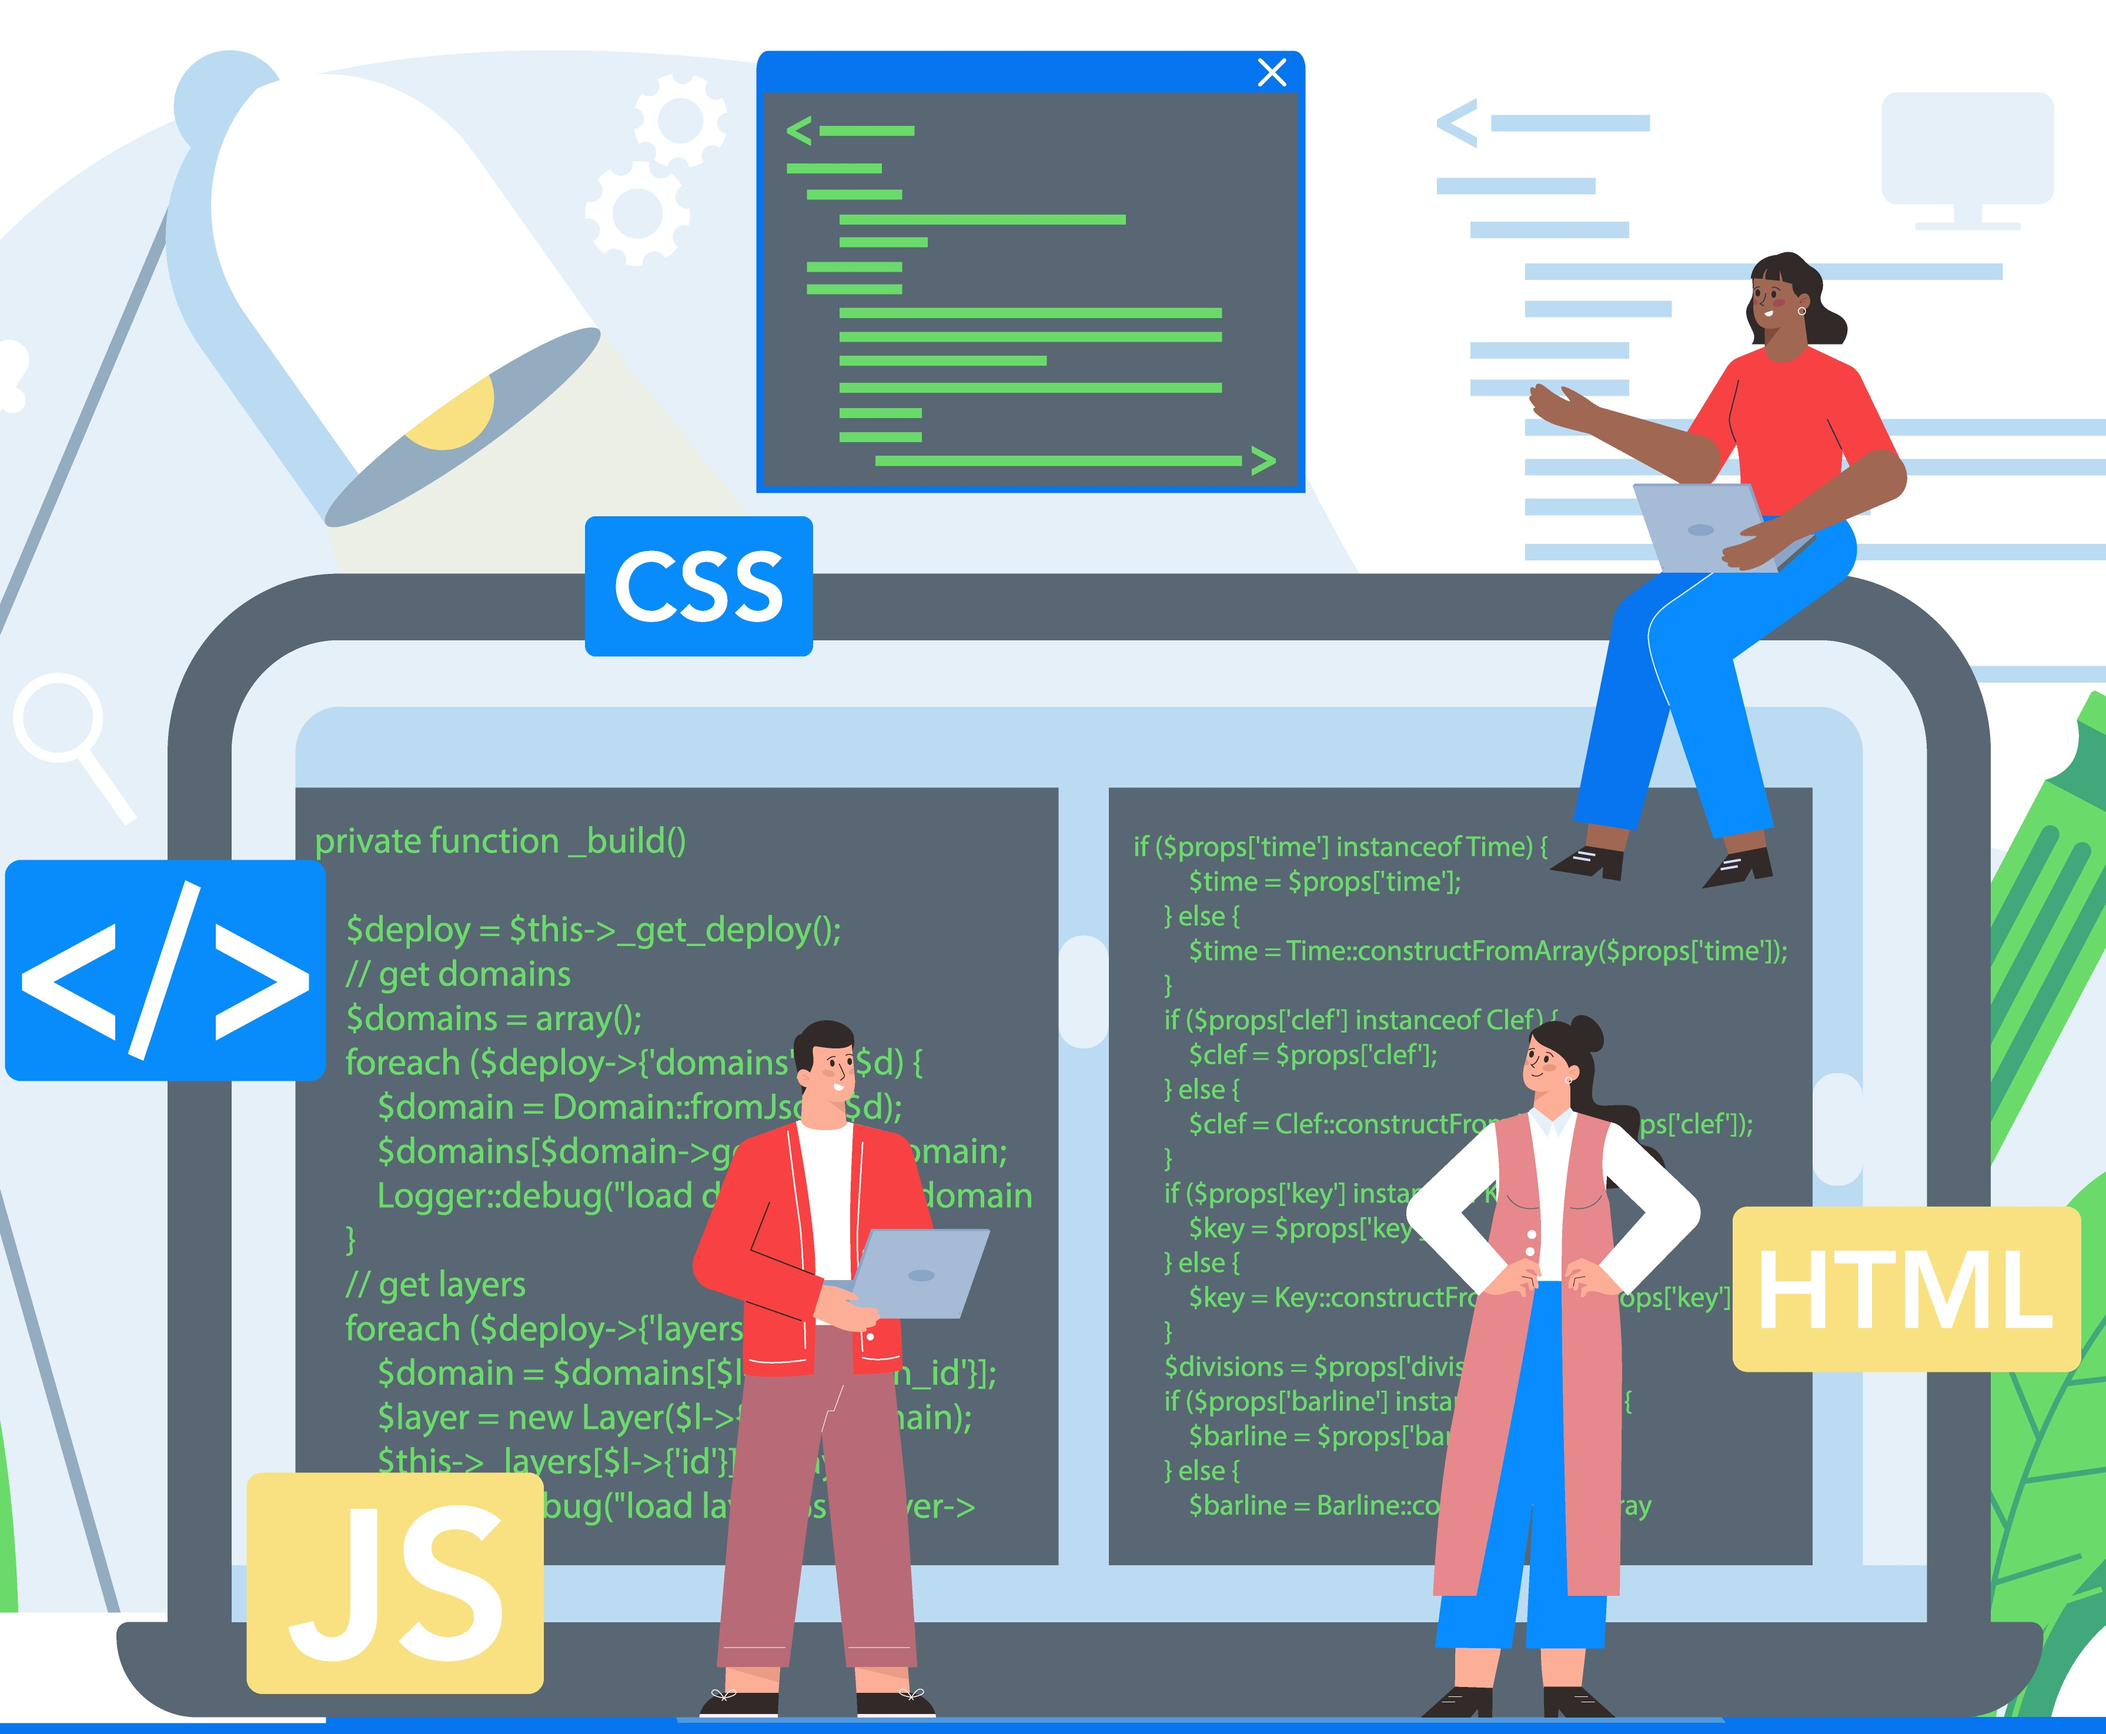
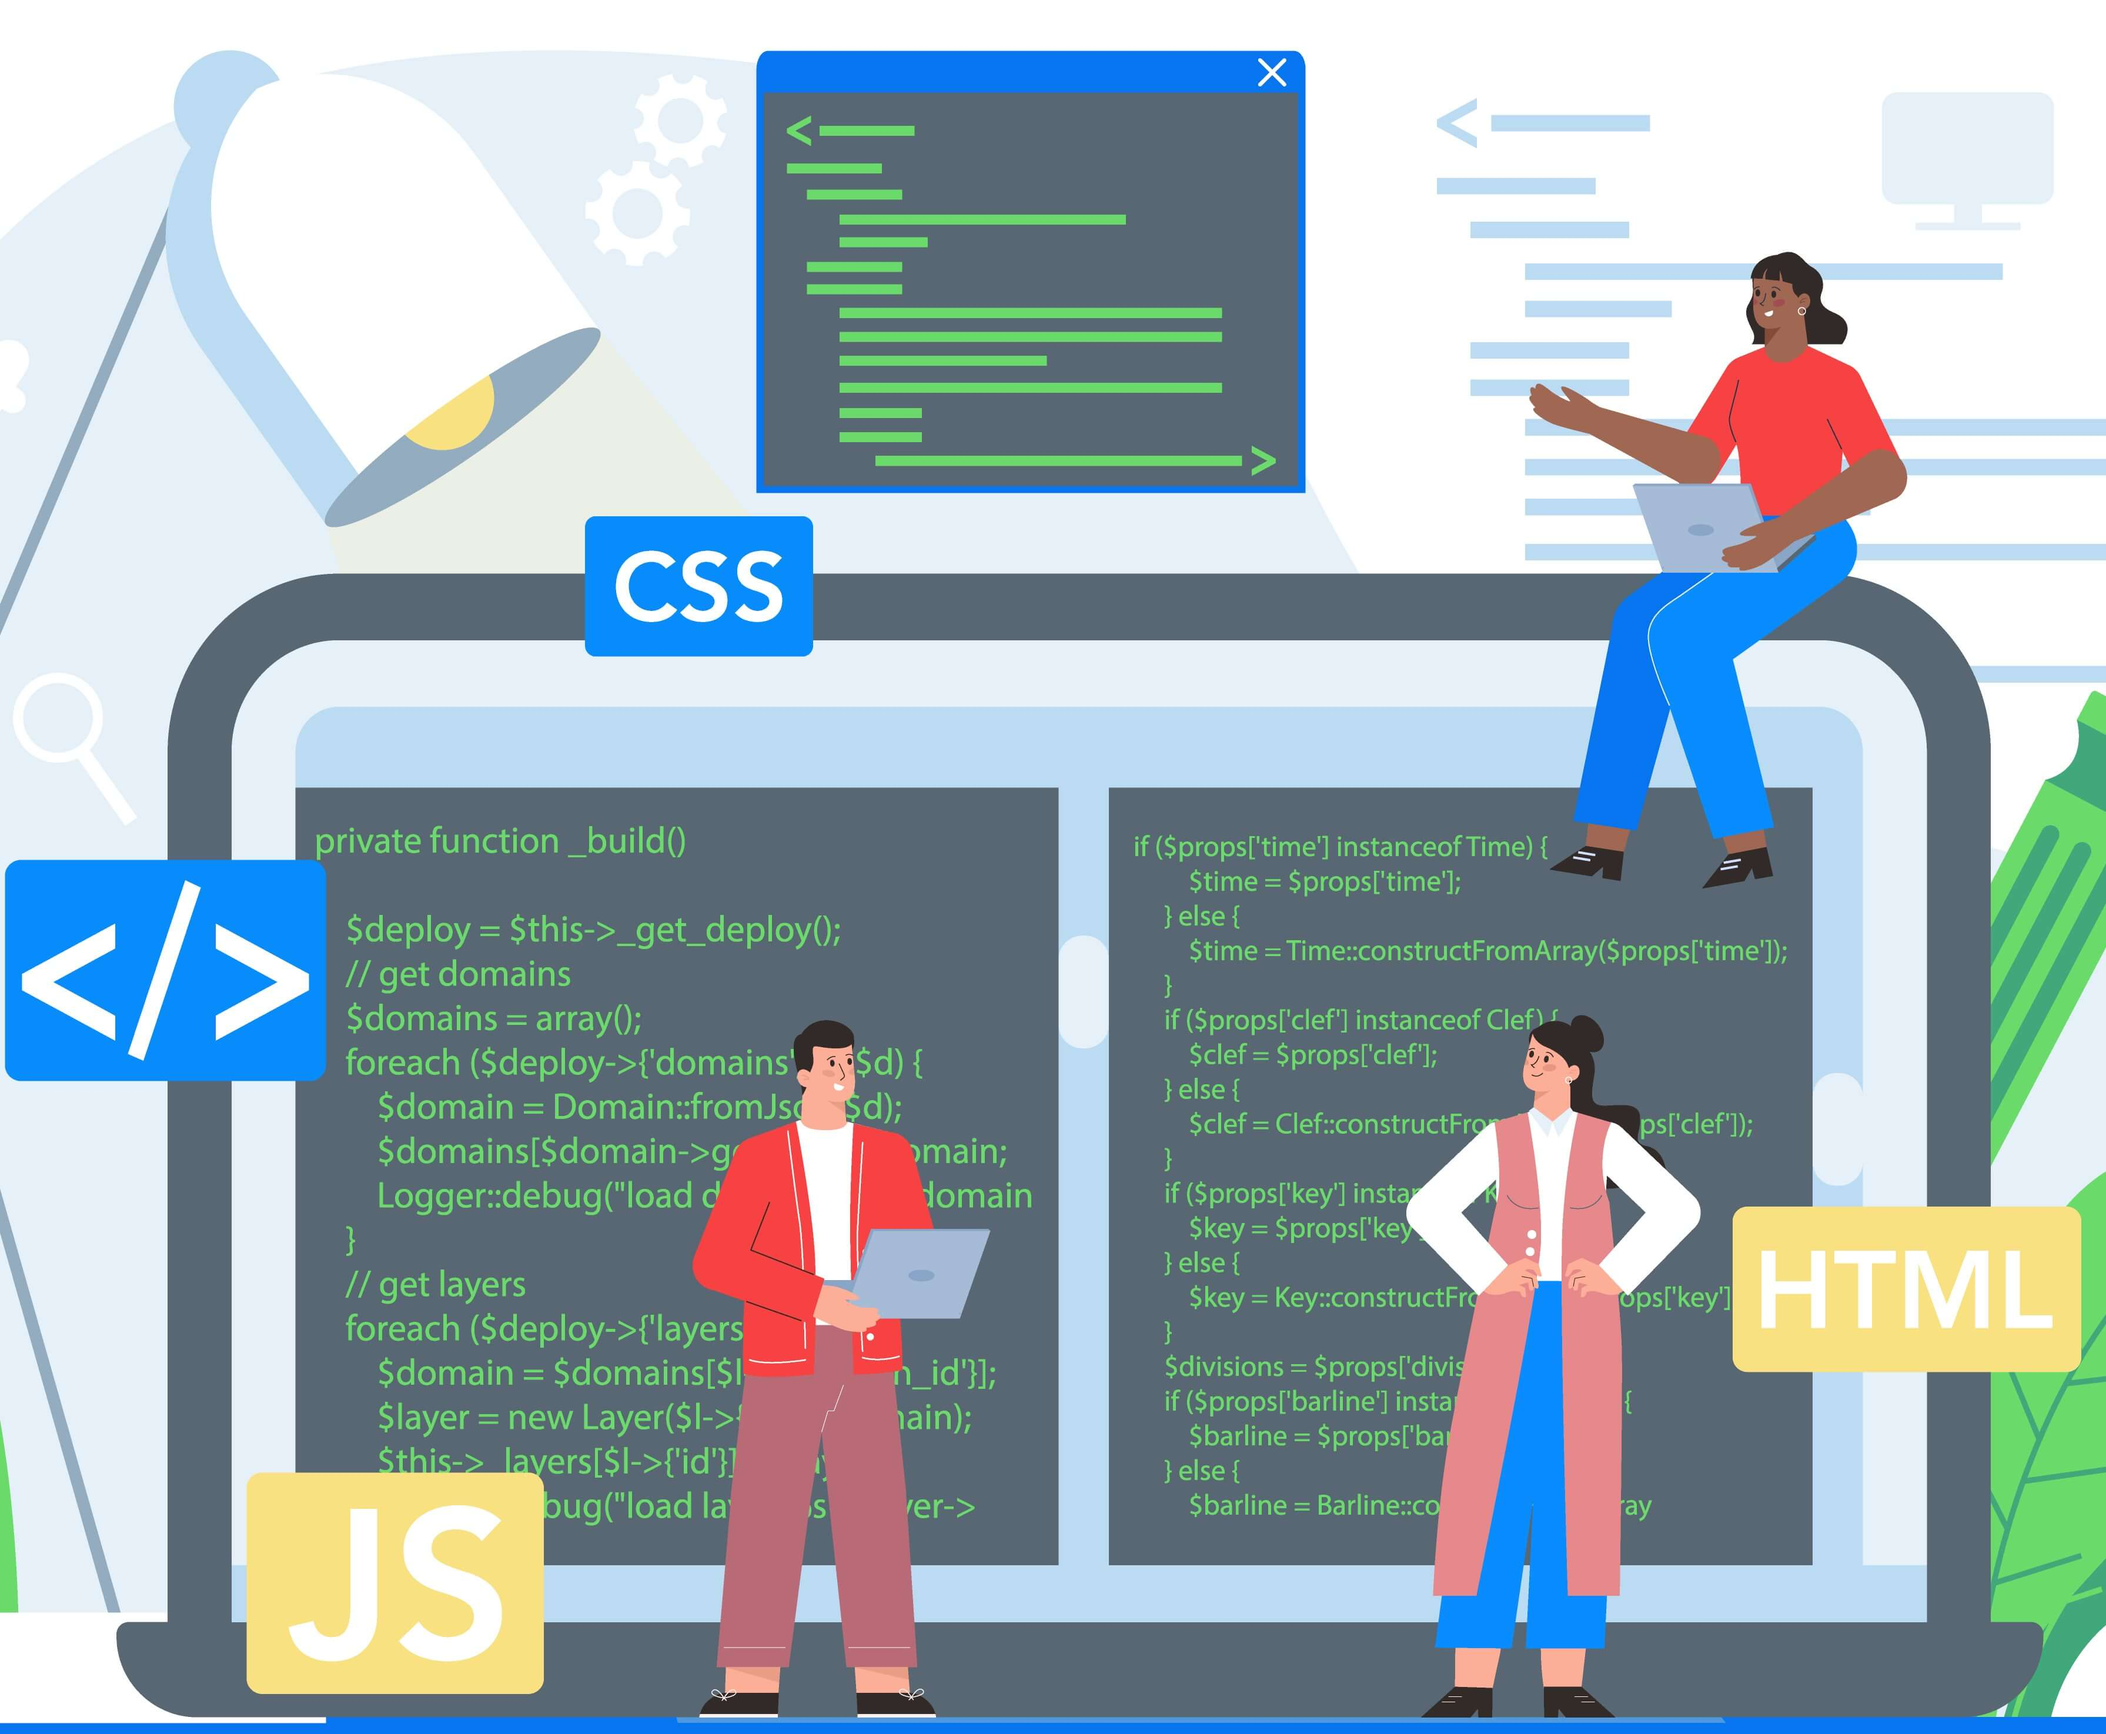
Compressed the images and used lazy loading for optimization of website

diff --git a/index.html b/index.html
@@ -78,7 +78,7 @@
             <div class="row g-4 justify-content-center">
                 <div class="col-12 col-md-6 col-lg-3">
                     <div class="card custom-card">
-                        <img src="img/frontend_online_3.jpg" alt="font_end" class="card-img-top">
+                        <img src="img/frontend_online_3.jpg" alt="font_end" class="card-img-top" loading="lazy">
                         <div class="card-body">
                             <h5 class="card-title">Front-end Technologies</h5>
                             <p class="card-text"><i class="devicon-html5-plain"></i> HTML 5</p>
@@ -90,7 +90,7 @@
                 </div>
                 <div class="col-12 col-md-6 col-lg-3">
                     <div class="card custom-card">
-                        <img src="img/datastorage.jpg" alt="font_end" class="card-img-top">
+                        <img src="img/datastorage.jpg" alt="font_end" class="card-img-top" loading="lazy">
                         <div class="card-body">
                             <h5 class="card-title">Database and Storage</h5>
                             <p class="card-text"><i class="devicon-mysql-plain"></i> MySQL</p>
@@ -102,7 +102,7 @@
                 </div>
                 <div class="col-12 col-md-6 col-lg-3">
                     <div class="card custom-card">
-                        <img src="img/backend_dev.jpg" alt="font_end" class="card-img-top">
+                        <img src="img/backend_dev.jpg" alt="font_end" class="card-img-top" loading="lazy">
                         <div class="card-body">
                             <h5 class="card-title">Back-end Technologies</h5>
                             <p class="card-text"><i class="devicon-python-plain"></i> Python</p>
@@ -114,7 +114,7 @@
                 </div>
                 <div class="col-12 col-md-6 col-lg-3">
                     <div class="card h-100 custom-card">
-                        <img src="img/devops.jpg" alt="font_end" class="card-img-top">
+                        <img src="img/devops.jpg" alt="font_end" class="card-img-top" loading="lazy">
                         <div class="card-body">
                             <h5 class="card-title">Tools and DevOps</h5>
                             <p class="card-text"><i class="devicon-vscode-plain"></i> vsCode</p>
